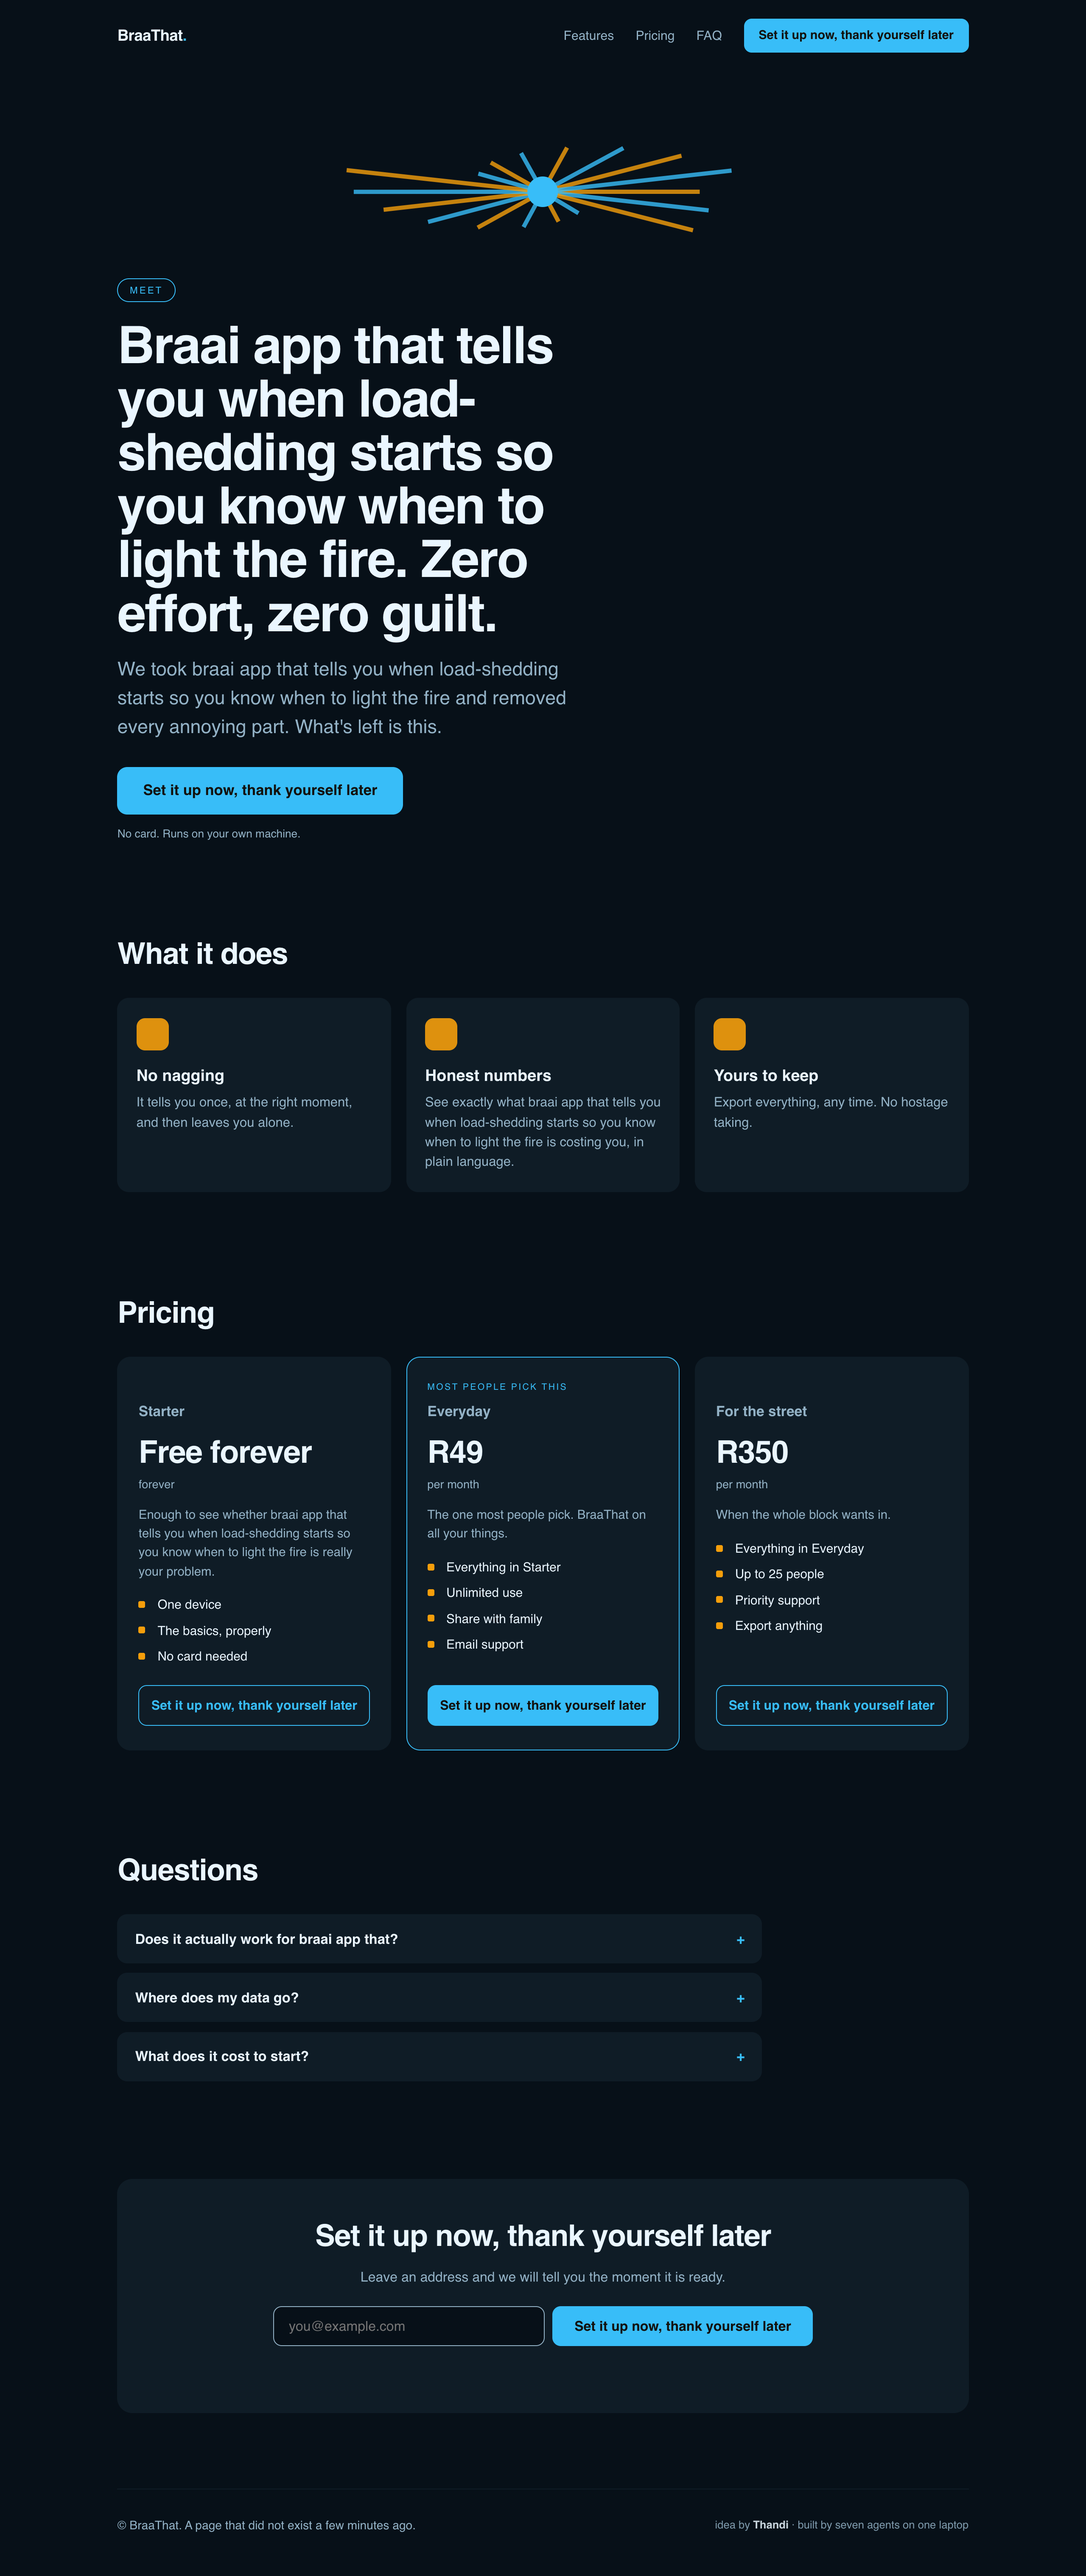
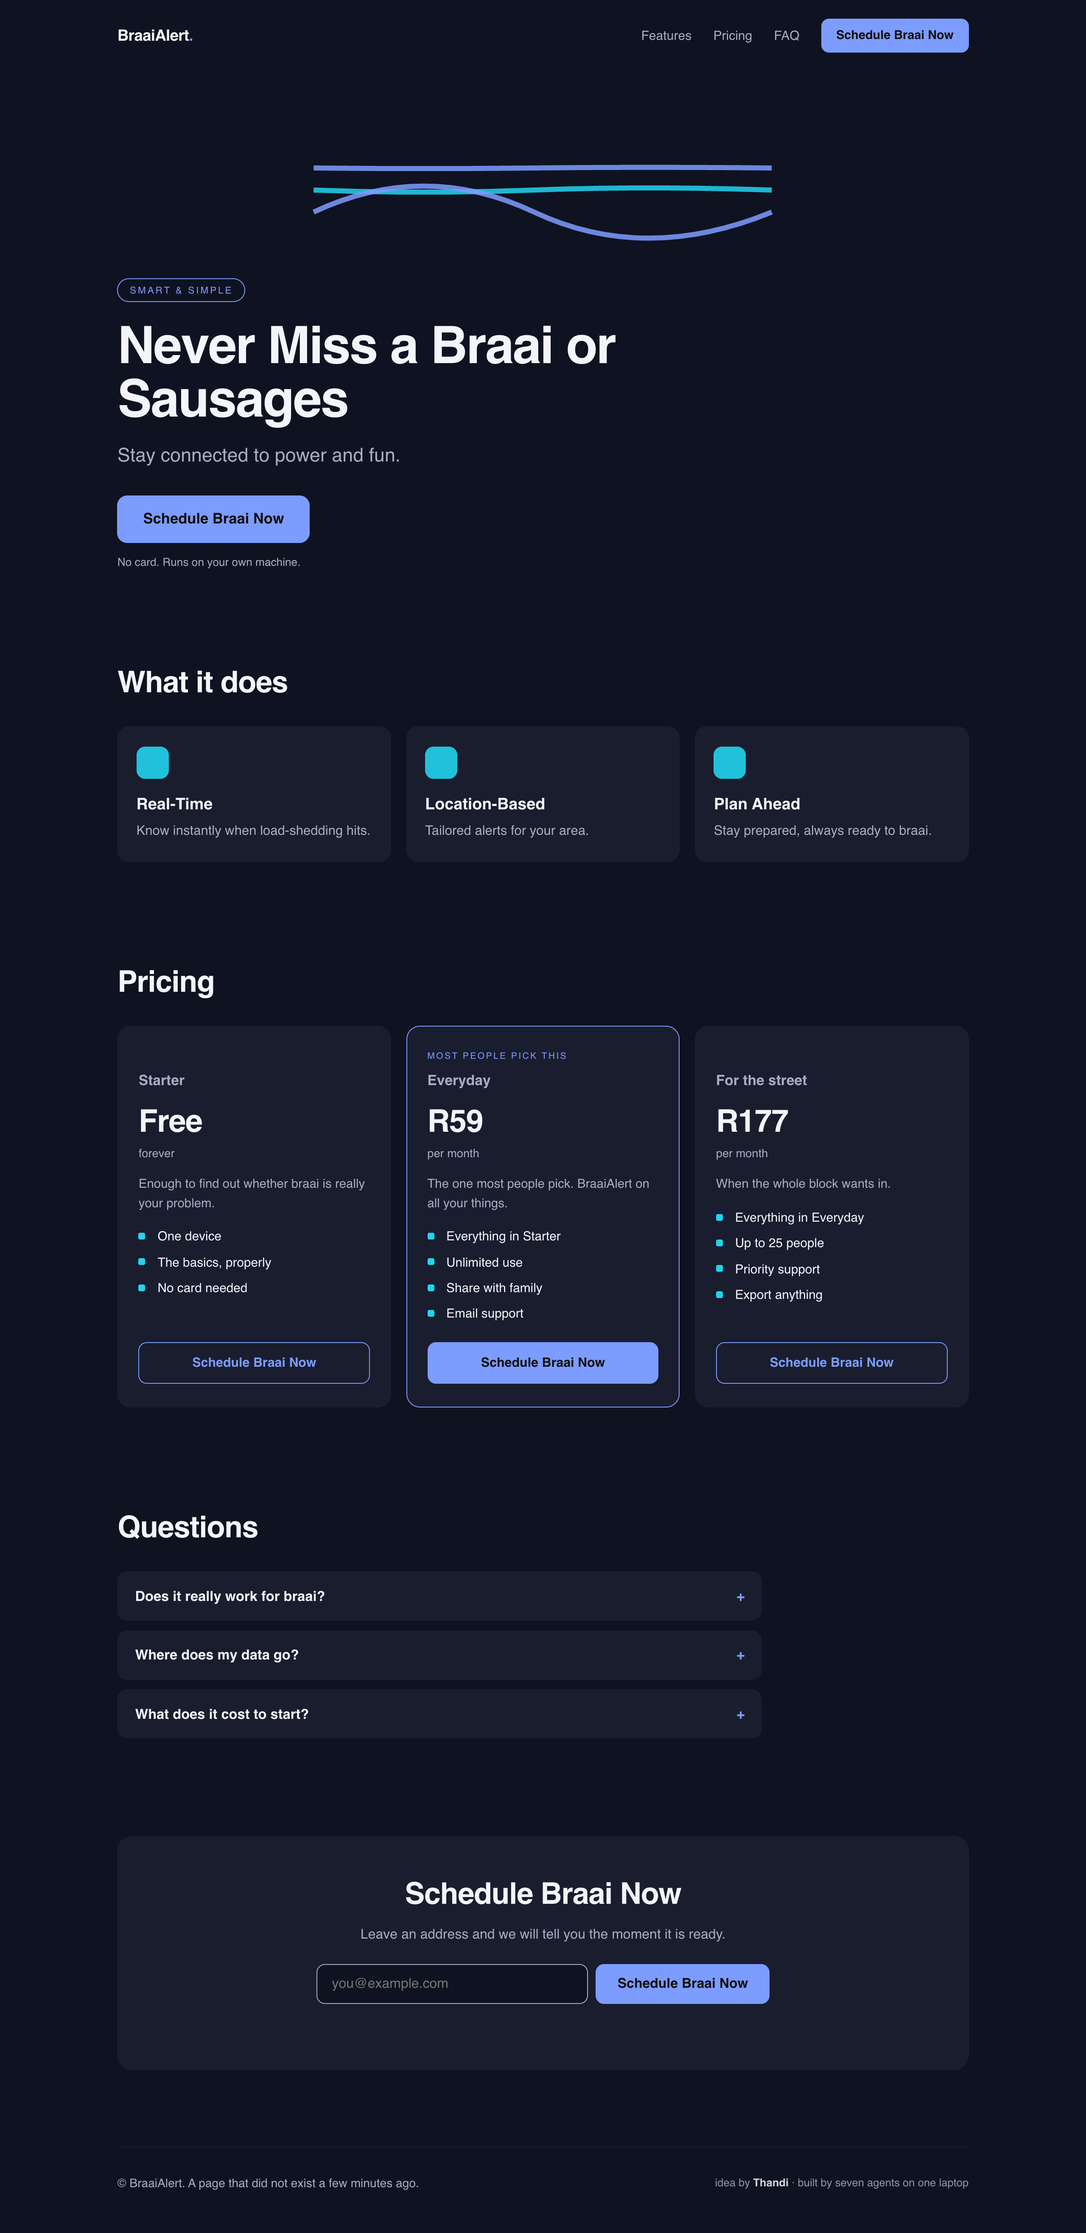
Make it actually compile and run against real Qwen
First run on a real JDK found two breakages that no amount of mock testing
would have caught, both mine:

- the pom pinned dev.langchain4j 1.0.1, which was never published. The current
  release is 1.18.1.
- LangChain4j renamed ChatLanguageModel to ChatModel somewhere in that gap, so
  CrewService did not compile.

Both fixed, and the whole thing now builds and runs end to end on Ollama:

- a full eight-agent stage build on qwen2.5:7b takes 11.6 to 14.0 seconds
- a background build on qwen2.5:3b takes about 5.2 seconds, so the split
  genuinely keeps the queue out of the live run's way
- the generated pages, the gallery, the doors and the name opt-in all behave
  the same against the real model as they did against the mock

The model's own writing is much better than my fallback templates: it named
the braai idea "BraaiAlert", wrote "Never Miss a Braai or Sausages", and the
Skeptic asked whether the app is more exciting than remembering to buy
sausages. Docs now carry measured numbers instead of guesses.

diff --git a/live-build/src/main/java/com/bbd/live/CrewService.java b/live-build/src/main/java/com/bbd/live/CrewService.java
@@ -1,6 +1,6 @@
 package com.bbd.live;
 
-import dev.langchain4j.model.chat.ChatLanguageModel;
+import dev.langchain4j.model.chat.ChatModel;
 import dev.langchain4j.model.ollama.OllamaChatModel;
 import dev.langchain4j.service.AiServices;
 import org.springframework.beans.factory.annotation.Value;
@@ -361,7 +361,7 @@ public class CrewService {
     // ---------- agents with fallbacks ----------
 
     private Bundle build(String which) {
-        ChatLanguageModel model = OllamaChatModel.builder()
+        ChatModel model = OllamaChatModel.builder()
                 .baseUrl(ollamaUrl).modelName(which)
                 .temperature(0.6).timeout(Duration.ofMinutes(2)).build();
         Bundle b = new Bundle();

diff --git a/live-build/README.md b/live-build/README.md
@@ -86,22 +86,33 @@ laptop; the data plan only creates the network.
 > The `/control` and `/join` pages show the exact QR and URL, auto-detected from whatever
 > network you are on. No editing needed.
 
+**1a. The toolchain**, if you do not have it (macOS):
+```bash
+brew install openjdk@21 maven ollama
+brew services start ollama
+export JAVA_HOME=/opt/homebrew/opt/openjdk@21
+export PATH="$JAVA_HOME/bin:$PATH"
+```
+
 **2. The models (for the real thing).** Two, on purpose: the stage crew gets the
 better model because the room is watching, and the background queue gets a
 smaller one so it can never slow your live run down.
 
 ```bash
-ollama pull qwen2.5:3b     # the stage crew
-ollama pull qwen2.5:1.5b   # the background queue
-ollama run qwen2.5:3b "hi" # warm the big one
+ollama pull qwen2.5:7b     # the stage crew
+ollama pull qwen2.5:3b     # the background queue
+ollama run qwen2.5:7b "hi" # warm the big one
 ```
+
+On a 32GB Apple Silicon machine `qwen2.5:7b` is the sweet spot for the stage:
+noticeably better names and copy than 3b, and still fast enough to watch.
 
 Both are configurable:
 
 ```
-live.model=qwen2.5:3b              # what the projector sees
-live.backgroundModel=qwen2.5:1.5b  # what fills the gallery while you talk
-live.background=false              # or turn background building off entirely
+live.model=qwen2.5:7b            # what the projector sees
+live.backgroundModel=qwen2.5:3b  # what fills the gallery while you talk
+live.background=false            # or turn background building off entirely
 ```
 
 Background builds also pause completely while a stage run is in flight, so the
@@ -156,6 +167,21 @@ consent travels with the submission, so nothing has to be scrubbed later.
 > It ships ticked by default, because the credit is half the fun and the box is
 > right there under the name field. If you would rather it be off by default,
 > flip `checked` on `#showName` in `static/index.html`.
+
+## Measured on real hardware
+
+Not estimates. M-series Mac, 32GB, `qwen2.5:7b` on stage and `qwen2.5:3b` behind:
+
+| | time |
+|---|---|
+| A full stage build, 8 agents | **11.6 to 14.0 s** |
+| A background build on the small model | **~5.2 s** |
+| Slowest agent (Copywriter, longest prompt) | ~5.7 s |
+| Server start | under 1 s |
+
+So a room of 30 ideas fills the gallery in roughly three minutes of background
+work, comfortably inside a talk, and a live run is a watchable ten to fifteen
+seconds.
 
 ## Timing
 

diff --git a/README.md b/README.md
@@ -232,6 +232,13 @@ Good agent design is good constraint design.
 | [Ollama](https://ollama.com) + `qwen2.5:3b` | the live agents | optional: both Java demos have a mock/fallback mode |
 | Node 18+ | the `live-build/mock` preview and the deck generator | optional |
 
+On macOS the whole toolchain is one line:
+`brew install openjdk@21 maven ollama && brew services start ollama`
+
+Measured on an M-series Mac with 32GB: a full eight-agent build on `qwen2.5:7b`
+takes **11.6 to 14 seconds**, and a background build on `qwen2.5:3b` about
+**5 seconds**.
+
 ---
 
 ## License
